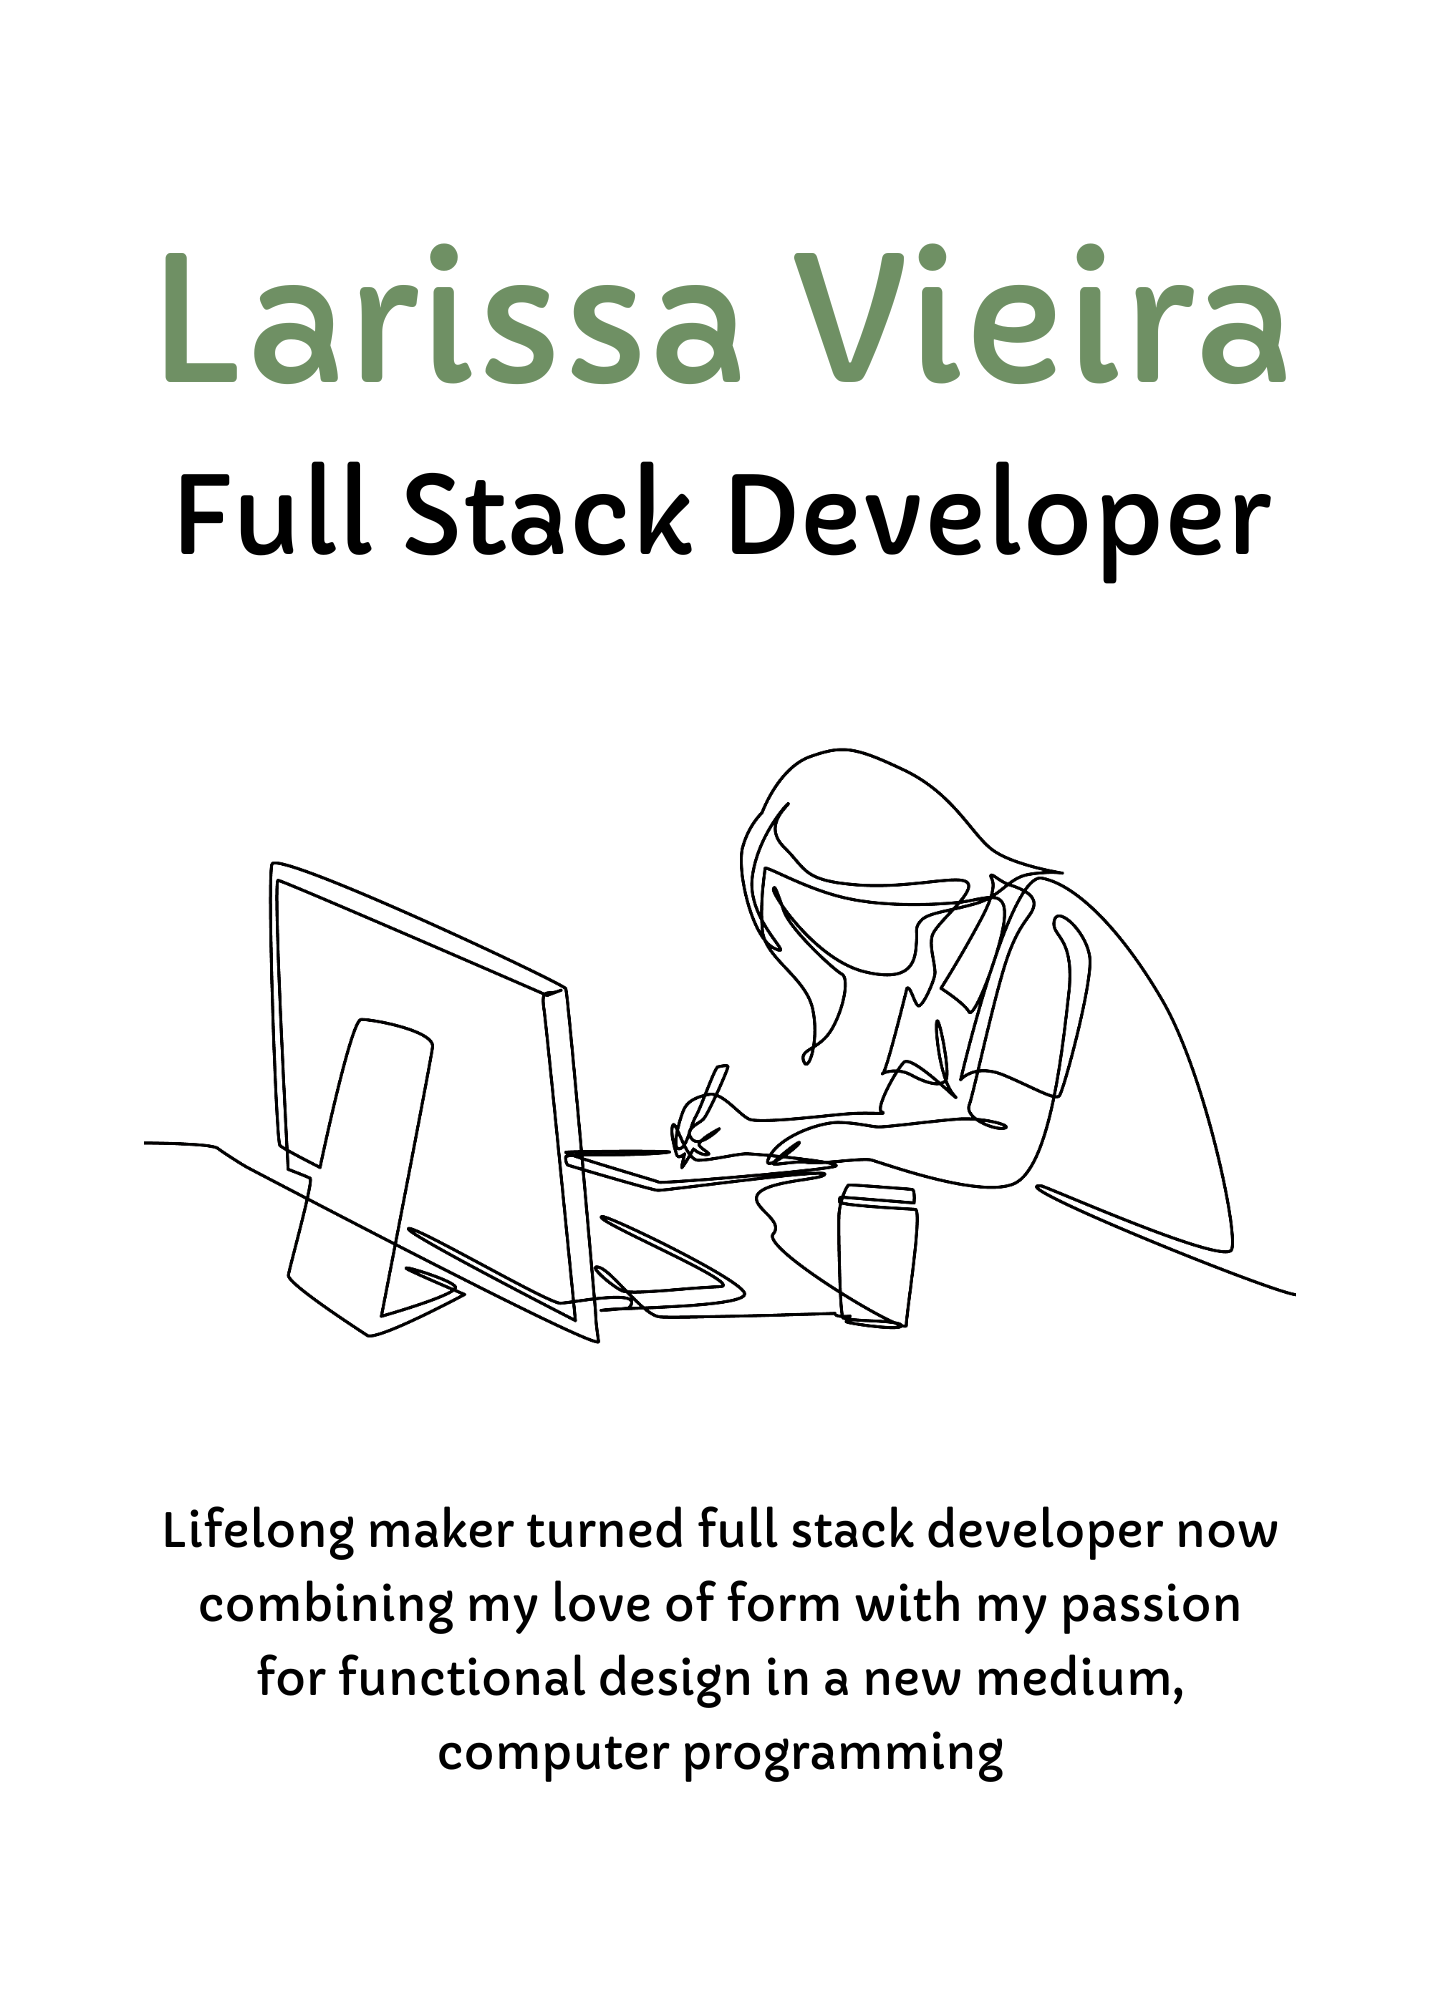
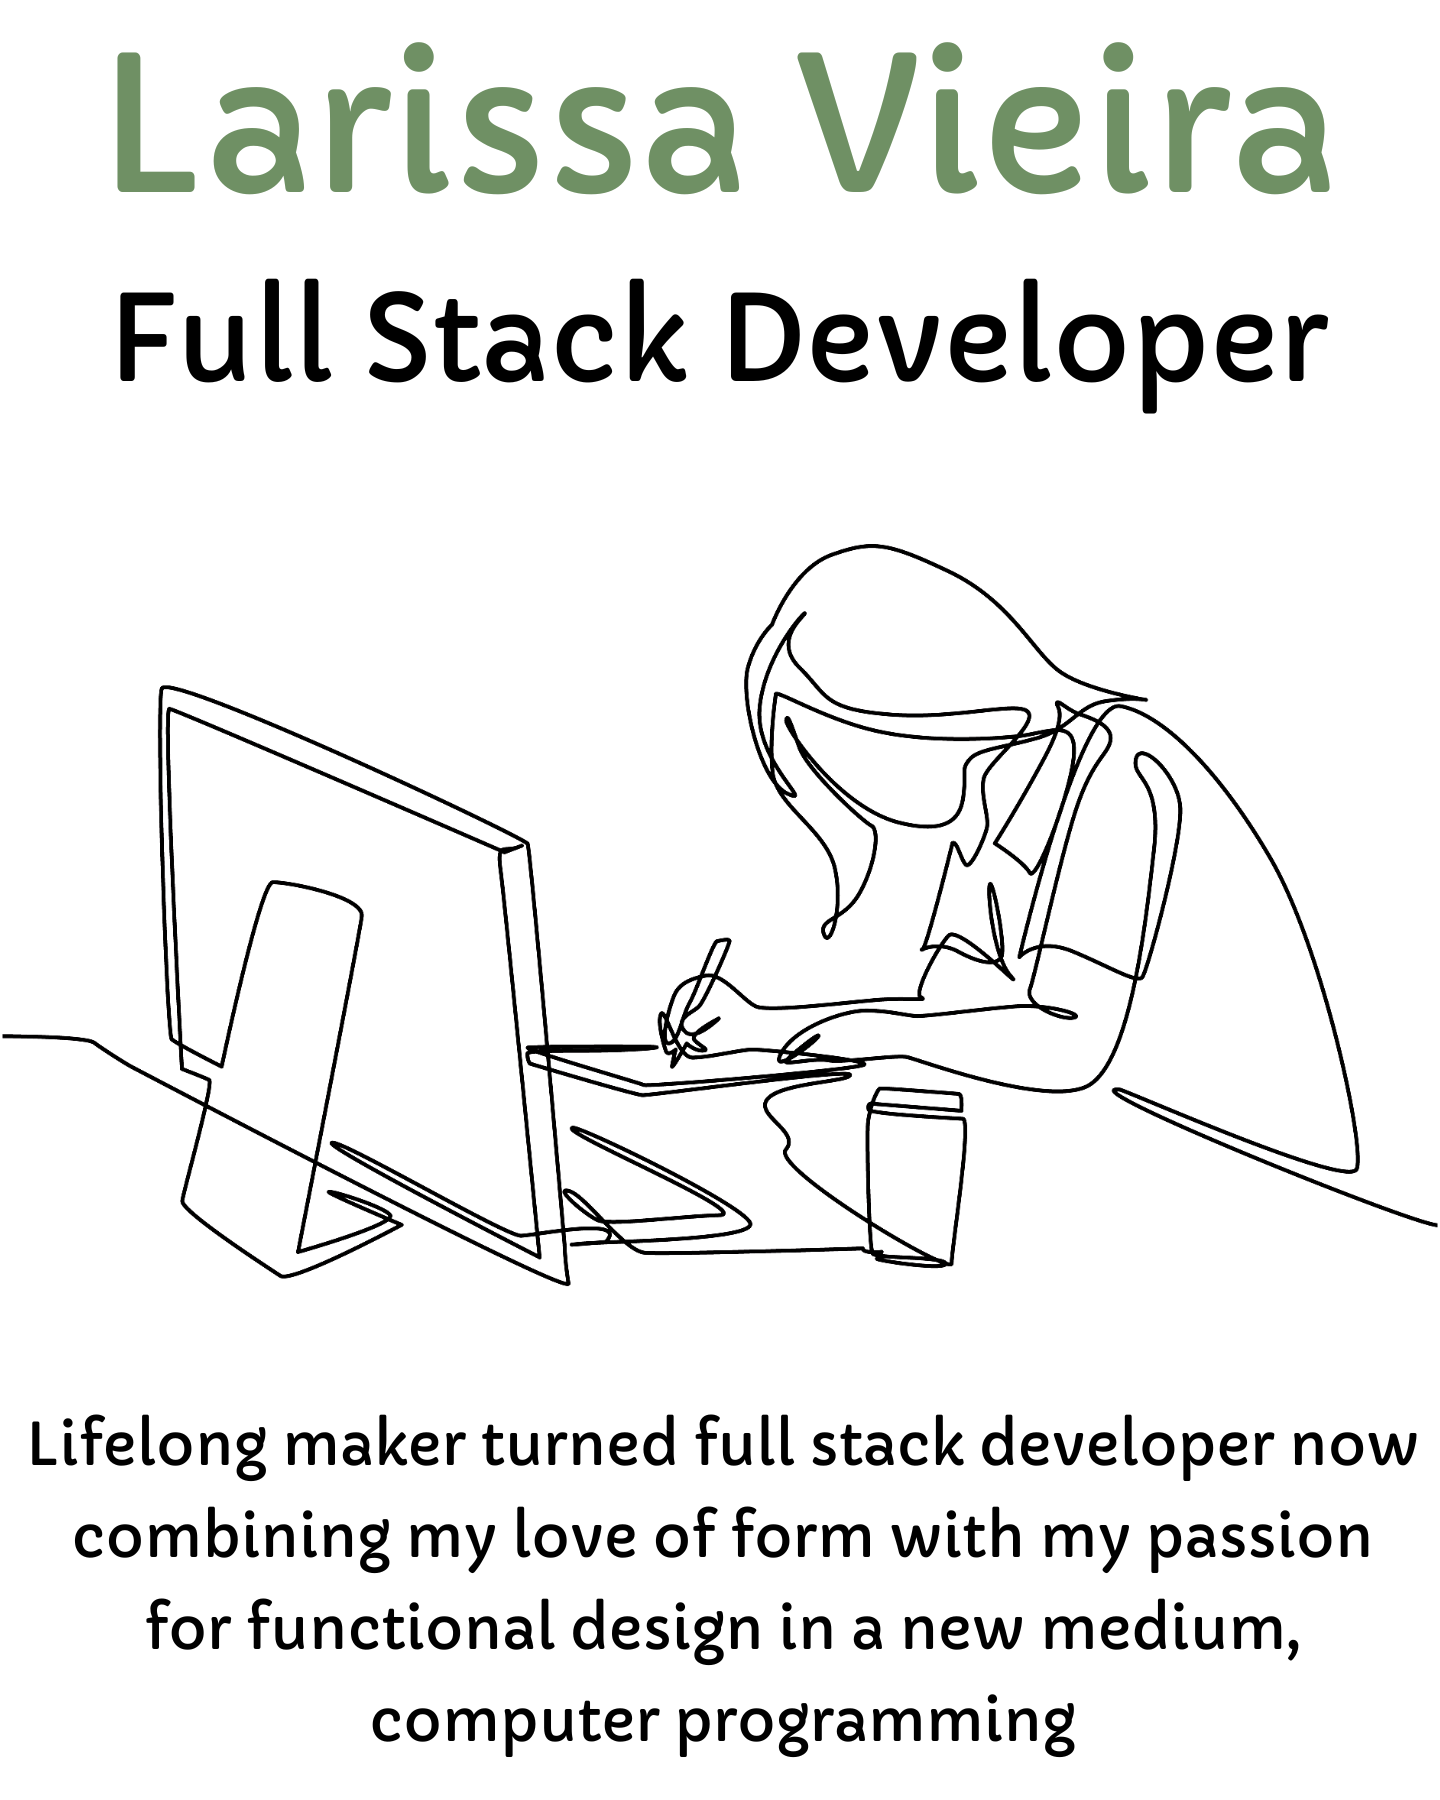
Homep page finalized

diff --git a/src/components/Home.jsx b/src/components/Home.jsx
@@ -2,28 +2,30 @@ import React from "react";
 
 const Home = () => {
   return (
-    <section className="max-w-screen-xl mx-auto">
-      <img
-        src="images/lineArt.png"
-        className="hidden lg:block"
-        alt="Line drawing of woman at computer"
-      />
-      <img
-        src="images/lineArtMobile.png"
-        className="max-w-full block lg:hidden"
-        alt="Line drawing of woman at computer"
-      />
-      {/* <img
+    <div className="max-w-screen-xl px-6 mx-auto lg:px-8">
+      <section className="flex h-screen justify-center items-center">
+        <img
+          src="images/lineArtFull.png"
+          className="hidden md:flex justify-center"
+          alt="Line drawing of woman at computer"
+        />
+        <img
+          src="images/lineArtMobile.png"
+          className="flex justify-center md:hidden"
+          alt="Line drawing of woman at computer"
+        />
+        {/* <img
         src="images/floralBorder.png"
         className="max-w-full"
         alt="Watercolor flowers"
       /> */}
-      {/* <img
+        {/* <img
         src="images/floralBorder2.png"
         className="max-w-full"
         alt="Watercolor flowers"
       /> */}
-    </section>
+      </section>
+    </div>
   );
 };
 

diff --git a/tailwind.config.js b/tailwind.config.js
@@ -5,7 +5,7 @@ module.exports = {
     colors: {
       alert: "#E67C0B",
       cream: "#F5EBD5",
-      danger: "#FF4019",
+      rust: "#C67F43",
       neutral: {
         50: "#FAFAFA",
         100: "#F5F5F5",
